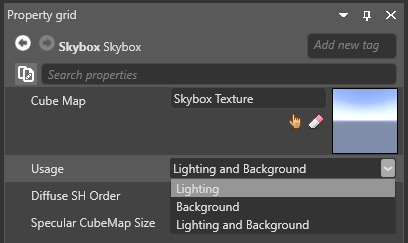
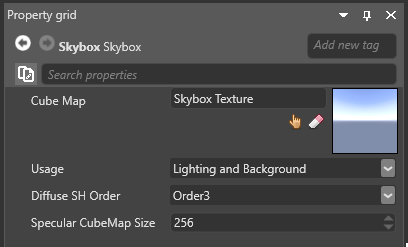
[graphics] skyboxes.md , skybox-lights.md - additional information about properties

diff --git a/manual/graphics/lighting-and-shadows/skybox-lights.md b/manual/graphics/lighting-and-shadows/skybox-lights.md
@@ -12,6 +12,8 @@ To use a skybox light, an entity must have both:
 * a [Light component](xref:SiliconStudio.Xenko.Engine.LightComponent) of type **Skybox**
 * a [Skybox component](xref:SiliconStudio.Xenko.Engine.SkyboxComponent)
 
+## How skyboxes light the scene
+
 These images show the difference between ambient and skybox lighting on two pure diffuse [materials](../materials/index.md):
 
 | Ambient lighting                                     | Skybox lighting     
@@ -23,50 +25,49 @@ These images show the effect of skybox lighting on different materials:
 ----------------------------------------------------------- | ---------------------------------------------------------------------------------- | -------------------------------------------------------------------------------------------------- | ---------------------------------------------------------------------------------------------------- |
  ![media/SkyboxLight-MaterialPlastic.png](media/SkyboxLight-MaterialPlastic.png)  | ![media/SkyboxLight-MaterialMetal100Gloss50.png](media/SkyboxLight-MaterialMetal100Gloss50.png)  | ![media/SkyboxLight-MaterialMetal100Gloss100.png](media/SkyboxLight-MaterialMetal100Gloss100.png)  |
 
-# Set up a skybox light
+## Set up a skybox light
 
-To follow these instructions, you need a skybox asset and an entity with a skybox component. For information about how to add them, see the [Skybox](../skyboxes.md) page.
+To set up a skybox light, you first need a skybox asset and an entity with a [Skybox component](xref:SiliconStudio.Xenko.Engine.SkyboxComponent). For information about how to add these, see the [Skybox](../skyboxes.md) page.
 
-1. Select the skybox asset.
+1. Select the entity that has the [Skybox component](xref:SiliconStudio.Xenko.Engine.SkyboxComponent).
 
-2. In the asset **Properties grid**, under **Usage**, you can choose whether the skybox is used for lighting, a background image, or both:
-
-    ![Skybox lighting properties](media/skybox-lighting-and-background.png)
-
-    * **Lighting and Background** (default): The skybox is used for both lighting and the background.
-    * **Lighting**: The skybox is only used for lighting, and isn't visible at runtime.
-    * **Background**: The skybox is only used as a background image, with no lighting.
-
-    If you want the skybox to be visible at runtime, select **Lighting and Background**. If you only want to use it for lighting, choose **Lighting**.
-
-    > [!Note]
-    > If the Skybox component is disabled, Xenko only uses it for lighting. It doesn't display the skybox background.
-
-3. Select the entity that has the [Skybox component](xref:SiliconStudio.Xenko.Engine.SkyboxComponent).
-
-4. In the entity **Properties grid**, click **Add component** and select [Light](xref:SiliconStudio.Xenko.Engine.LightComponent).
+2. In the entity **Properties grid**, click **Add component** and select [Light](xref:SiliconStudio.Xenko.Engine.LightComponent).
 
     ![Skybox component properties](media/skybox-add-light-component.png)
 
-5. In the **Light** component properties, under **Usage**, select **Skybox**.
+3. In the **Light** component properties, under **Usage**, select **Skybox**.
 
     ![Light component property](media/light-component-property.png)
 
 The [Light componenet](xref:SiliconStudio.Xenko.Engine.LightComponent) uses the skybox asset to light the scene.
 
-# Skybox light properties
+## Skybox asset properties
 
-![media/SkyboxLightProperties.png](media/SkyboxLightProperties.png) 
+The skybox asset properties affect how the skybox lights the scene.
+
+When you use a skybox as a light, Xenko uses it both in compressed form ([spherical harmonics (Wikipedia)](https://en.wikipedia.org/wiki/Spherical_harmonics)), and as a texture, to light different kinds of material. In the **Properties grid**, you can control the detail of both.
+
+![Skybox lighting properties](media/skybox-lighting-and-background.png)
 
 | Property     | Description                                                                                                                                                                                    |
 | ------------ | ---------------------------------------------------------------------------------------------------------------------------------------------------------------------------------------------- |
+| Cube Map |  The cubemap asset used for the skybox. 
+| Usage        |  Specify whether the skybox is visible at runtime (**Lighting and Background**) or only used for lighting (**Lighting**). Note that the **Background** option is deprecated and will be removed in a future release.
+| Diffuse SH Order  | The level of detail of the compressed skybox, used for diffuse lighting (dull materials). `Order5` is more detailed than `Order3`. |
+| Specular Cubemap Size | The texture size used for specular lighting (shiny materials). Larger textures have more detail. |
+
+## Skybox light properties
+
+![media/SkyboxLightProperties.png](media/SkyboxLightProperties.png) 
+
+| Property     | Description   |
+| ------------ | ---------------------------------------------------------------------------------------------------------------------------------------------------------------------------------------------- |
 | Type         | Skybox                                                                                                                                                                                         |
 | Intensity    | The light intensity. The value has no units, as it is dependent on the Skybox component values (see the note below). |
-| Culling Mask | Defines which entity groups are affected by the light. By default, all groups are affected.                                                                                                   |
+| Culling Mask | Which entity groups are affected by the light. By default, all groups are affected.                                                                                                   |
 
 >[!Note]
 >The **Intensity** properties in the Skybox and Light components are linked. To calculate the Light component [intensity](xref:SiliconStudio.Xenko.Engine.LightComponent.Intensity), Xenko multiplies it by the Skybox component [intensity](xref:SiliconStudio.Xenko.Engine.SkyboxComponent.Intensity). The final color is defined as: `final Color = Skybox Sampler Color * Light Skybox Intensity * Skybox Intensity`
-
 
 ## See also
 

diff --git a/manual/graphics/skyboxes.md b/manual/graphics/skyboxes.md
@@ -19,6 +19,7 @@ To create a skybox, Xenko encloses the scene in a cube and maps a texture, calle
 Cubemaps are composed of six images, one for each face of the skybox cube. Xenko uses cubemaps with the extension `.dds`.
 
 Currently, Game Studio can't convert image files to `.dds` files. Use another application to create a cubemap from separate image files, such as:
+
 * [Nvidia conversion tool](https://developer.nvidia.com/nvidia-texture-tools-adobe-photoshop)
 * [ATI conversion tool](http://developer.amd.com/tools-and-sdks/archive/games-cgi/cubemapgen)
 
@@ -36,7 +37,7 @@ The cubemap is now available as an asset in your project. You can use the cubema
 
 ## Add a skybox asset to a project
 
-1. In the **Asset view**, click ![](media/engine-skybox-add-new-asset-button.png)
+1. In the **Asset view**, click ![Add new asset](media/engine-skybox-add-new-asset-button.png)
 2. Select **Miscellaneous**, and choose **Skybox**.
 
     ![Choose asset type](media/engine-skybox-choose-asset-type.png)
@@ -46,6 +47,8 @@ The cubemap is now available as an asset in your project. You can use the cubema
 3. Choose a skybox texture (`.dds` file) from the project assets and click **OK**.
     
     ![Choose texture](media/engine-skybox-select-skybox-texture.png)
+
+The skybox asset properties affect how the skybox lights the scene. For information about these properties, see [Skybox lights](lighting-and-shadows/skybox-lights.md).
 
 ## Add a skybox component to an entity
 
